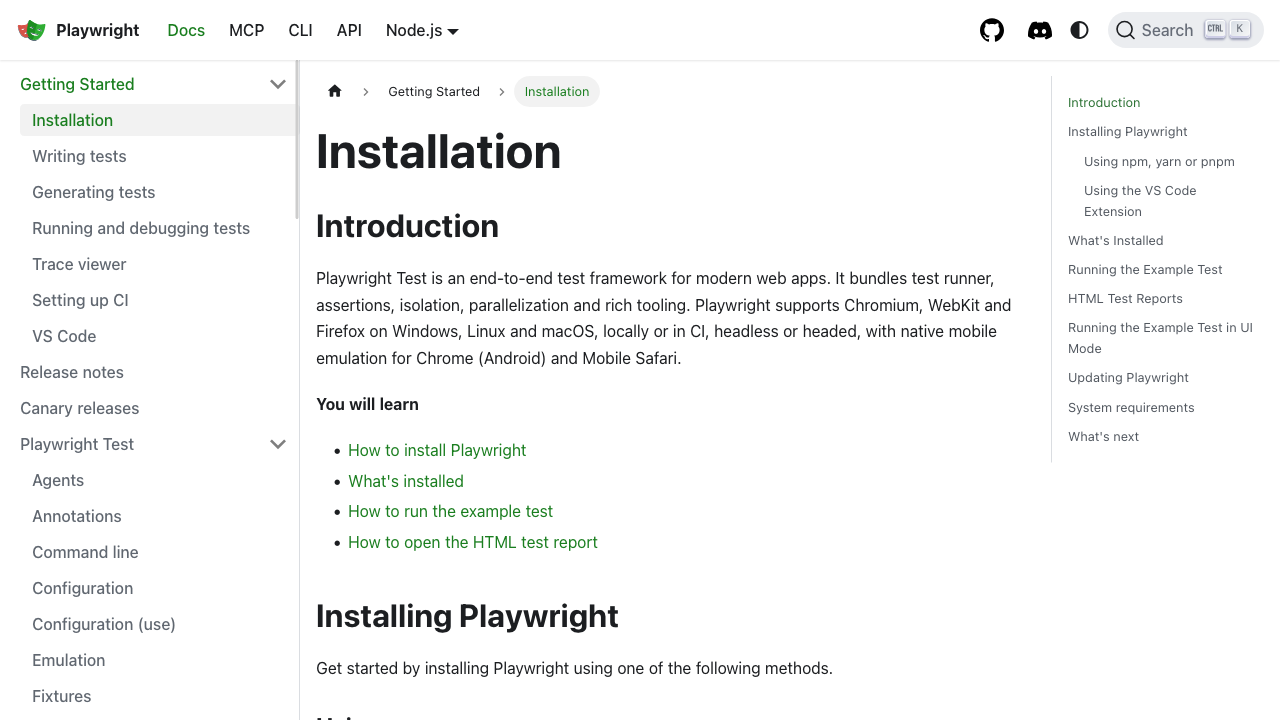
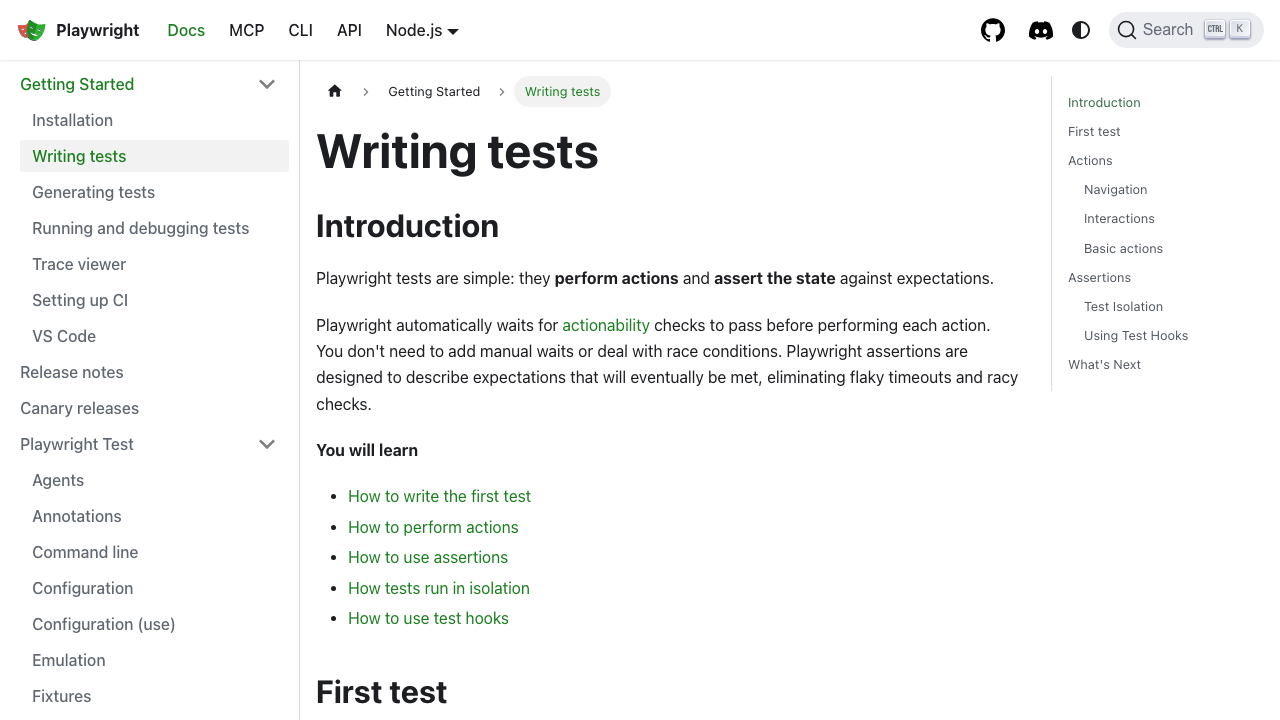
Basic Exercises

diff --git a/tests/basicExercises.spec.ts b/tests/basicExercises.spec.ts
@@ -1,0 +1,87 @@
+import { test, expect, firefox, chromium } from '@playwright/test';
+
+test.describe('homework', () => {
+
+  test('GitHub Sign In', async ({ page }) => {
+    // Go to the GitHub page
+    await page.goto('https://github.com/');
+    // Click the Sign in button
+    await page.getByRole('link', { name: 'Sign in' }).click();
+    // Add dummy user name and password
+    await page.getByRole('textbox', { name: 'Username or email address' }).fill('[email redacted]');
+    await page.getByRole('textbox', { name: 'Password' }).fill('heeeheee');
+    await page.getByRole('button', { name: 'Sign in' }).click();
+    // Assert that an error appears. 
+    await expect(page.getByText('Incorrect username or password.')).toBeVisible();
+  });
+
+  test('Browsers & Browser context', async () => {
+    // Launch a Firefox browser
+    const browser = await firefox.launch();
+    console.log(browser.contexts().length);
+    // Create a new Context
+    const context = await browser.newContext();
+    // Console log the browser contexts' length
+    console.log(browser.contexts().length);
+    // Create a new page
+    const page = await context.newPage();
+    // Console log the browser contexts' length
+    console.log(browser.contexts().length);
+    // Go to the playwright URL
+    await page.goto('https://playwright.dev/');
+    // Close up the context and browser
+    await context.close();
+    await browser.close();
+  });
+
+});
+
+// Open a describe block and create a test.
+test.describe('Context', () => {
+
+  test('Multiple pages', async () => {
+    // Launch a Chromium browser
+    const browser = await chromium.launch();
+    console.log(browser.contexts().length);
+    // Create a new Context.
+    const context = await browser.newContext();
+    // Create a page and go to the Playwright installation URL
+    const page1 = await context.newPage();
+    await page1.goto('https://playwright.dev/docs/intro');
+    // Create a second page and go to the playwright writing tests URL.
+    const page2 = await context.newPage();
+    await page2.goto('https://playwright.dev/docs/writing-tests');
+    // Get the pages of the browser context.
+    const pages = context.pages();
+
+    await page1.screenshot({ path: './tests/screenshots/page1.png'})
+    await page2.screenshot({ path: './tests/screenshots/page2.png'})
+    await browser.close();
+  });
+  
+});
+
+// Open a describe block, and create a test.
+test.describe('Methods', () => {
+  test('Pages Methods', async () => {
+    // Launch a Firefox browser
+    const browser = await firefox.launch();
+    // Create a new Context and a new page.
+    const context = await browser.newContext();
+    const page = await context.newPage();
+    // Go to the playwright URL
+    await page.goto('https://playwright.dev/');
+    // Use the page to take a screenshot.
+    await page.screenshot({ path: './tests/screenshots/playwright.png'})
+    // Got to GitHub URL.
+    await page.goto('https://github.com/');
+    // Use the page once to console.log “Page loaded!”
+    page.once('load', msg => {
+        console.log('Page loaded!');
+    });
+    await page.screenshot({ path: './tests/screenshots/github.png'})
+    // Navigate to the previous page in history.
+    await page.goBack()
+    await browser.close();
+  });
+});